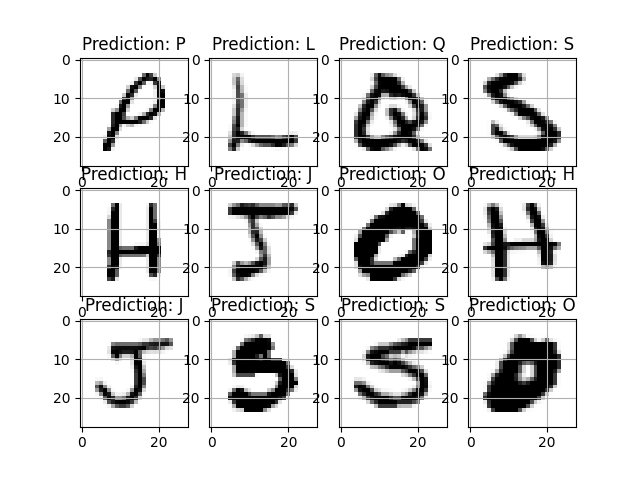
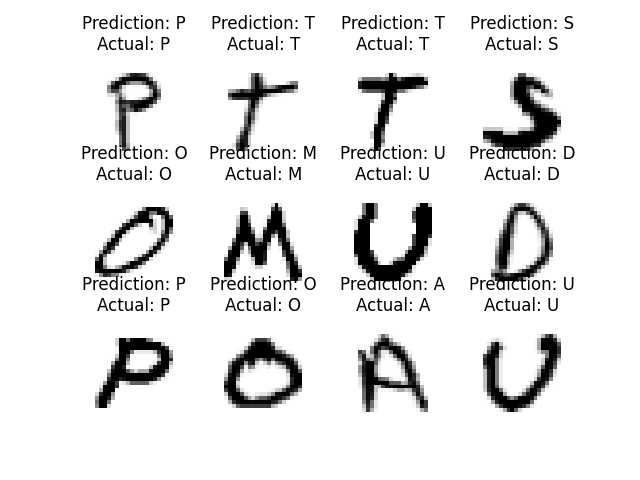
Removed grid from plots

diff --git a/src/characters-plot.py b/src/characters-plot.py
@@ -23,12 +23,12 @@ def index_to_letter(index: int) -> str:
 # Display test images with their predictions.
 print("Producing plots...")
 fig, axes = plt.subplots(3, 4)
-axes = axes.flatten()
-for i, ax in enumerate(axes):
+for i, ax in enumerate(axes.flatten()):
     chart: Axes = ax
     img = images.iloc[i].to_numpy().reshape((28, 28))
     chart.imshow(img, cmap="Greys")
     prediction = index_to_letter(np.argmax(probabilities[i]))
-    chart.set_title(f"Prediction: {prediction}")
-    chart.grid()
+    actual = index_to_letter(labels.iloc[i])
+    chart.set_title(f"Prediction: {prediction}\nActual: {actual}")
+    chart.set_axis_off()
 plt.savefig("./examples/characters.png")

diff --git a/README.md b/README.md
@@ -34,4 +34,6 @@ All datasets are expected to be placed in the top-level _/data_ folder. All comm
 
 After building each model, see the console for the results of running the model against a random testing dataset.
 
-To visualize the results, ...
+To visualize the results, run a specific Make command after the corresponding model is saved.
+
+1. Handwritten Character Recognition: `make char-plot`
